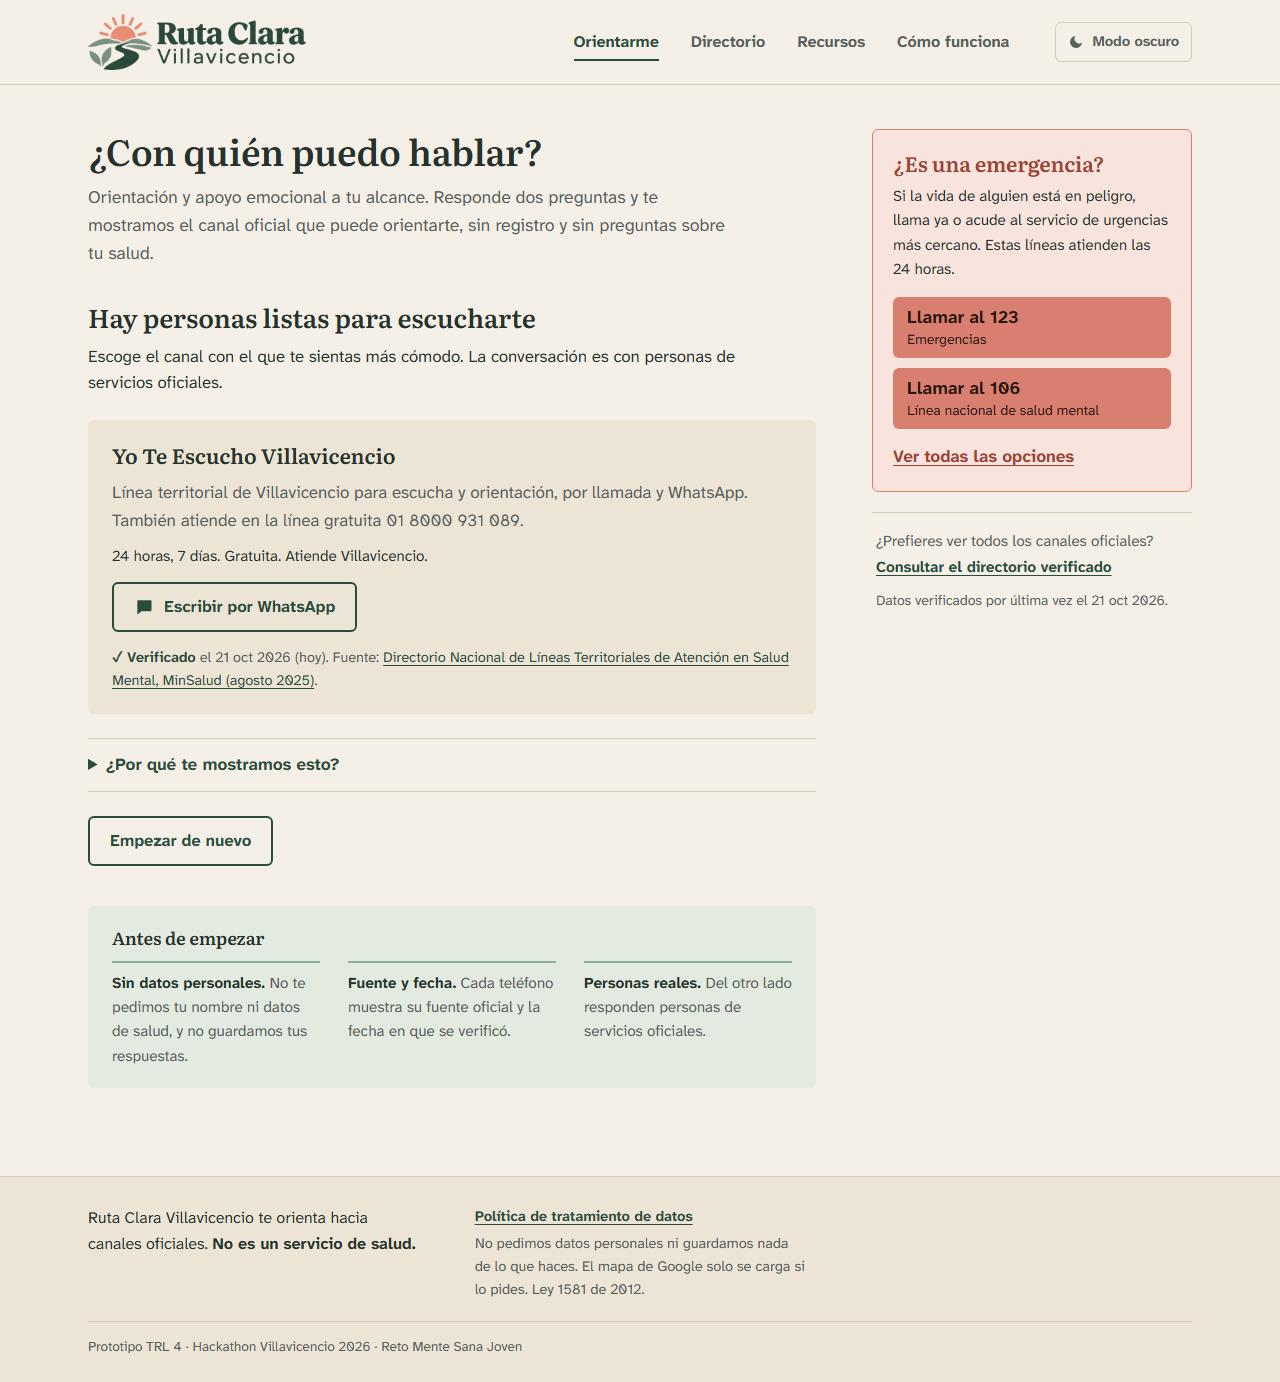
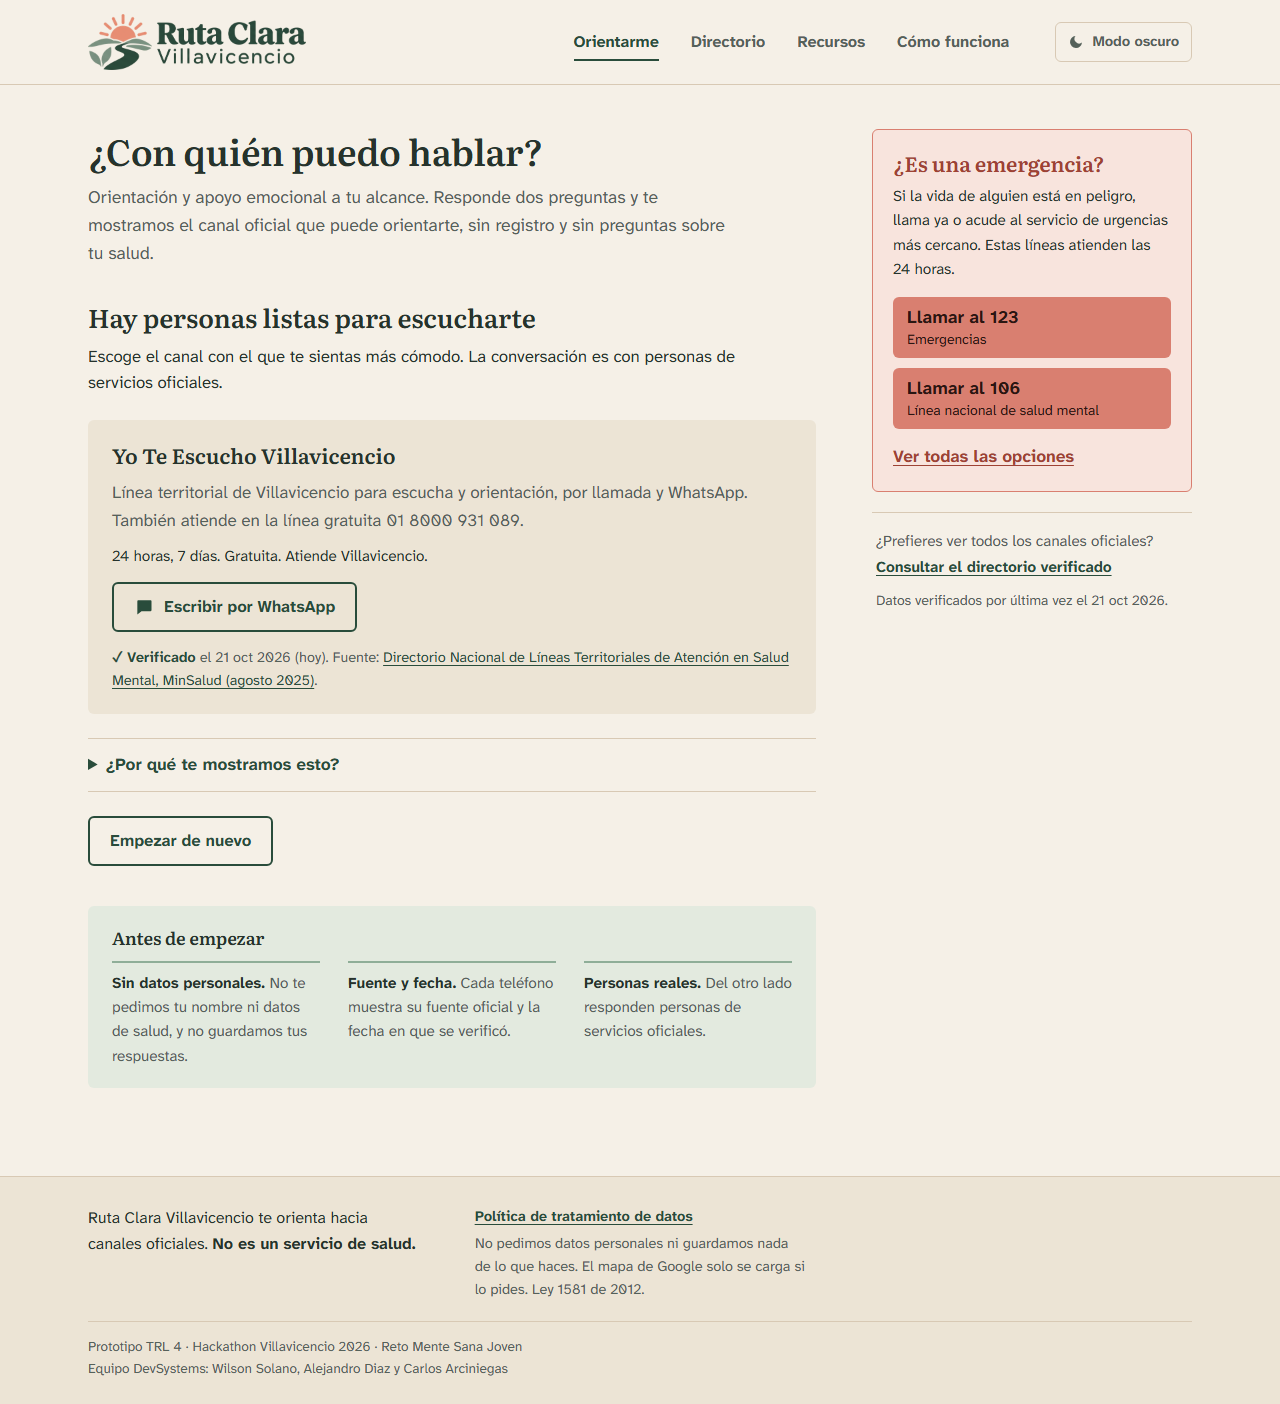
Equipo DevSystems en el pie, la política de datos y la declaración del equipo

diff --git a/src/components/Privacidad.tsx b/src/components/Privacidad.tsx
@@ -88,7 +88,7 @@ export function Privacidad() {
 
       <h3 className="subtitulo">Responsable y vigencia</h3>
       <ul className="lista-numerada">
-        <li><strong>Responsable en el prototipo:</strong> el equipo Ruta Clara Villavicencio, participante de la Hackathon Villavicencio 2026, reto Mente Sana Joven. El prototipo no recoge datos personales en ningún servidor.</li>
+        <li><strong>Responsable en el prototipo:</strong> el equipo DevSystems (Wilson Solano, Alejandro Diaz y Carlos Arciniegas), creador de Ruta Clara Villavicencio y participante de la Hackathon Villavicencio 2026, reto Mente Sana Joven. El prototipo no recoge datos personales en ningún servidor.</li>
         <li><strong>En operación:</strong> la entidad que opere Ruta Clara (por ejemplo, la Alcaldía de Villavicencio) será la responsable y publicará aquí su domicilio, correo, teléfono y el área que atiende peticiones, consultas y reclamos, como exige el Decreto 1377 de 2013 (art. 13).</li>
         <li><strong>Vigencia:</strong> esta política rige desde el 21 oct 2026. Si cambia, lo informaremos en esta página antes de aplicar el cambio.</li>
       </ul>

diff --git a/src/App.tsx b/src/App.tsx
@@ -144,7 +144,7 @@ export default function App() {
             <a href="#privacidad">Política de tratamiento de datos</a>
             <p>No pedimos datos personales ni guardamos nada de lo que haces. El mapa de Google solo se carga si lo pides. Ley 1581 de 2012.</p>
           </div>
-          <p className="pie-legal">Hackathon Villavicencio 2026 · Reto Mente Sana Joven</p>
+          <p className="pie-legal">Hackathon Villavicencio 2026 · Reto Mente Sana Joven<br />Equipo DevSystems: Wilson Solano, Alejandro Diaz y Carlos Arciniegas</p>
         </div>
       </footer>
 

diff --git a/LEEME.md b/LEEME.md
@@ -93,7 +93,7 @@ Cada vista tiene su propia dirección, así que el botón "atrás" del celular f
 
 En orden de prioridad. Si tomas uno, escribe tu nombre al lado.
 
-- [ ] **Completar la declaración del equipo:** nombre del equipo e integrantes con su rol en `docs/05-declaracion-del-equipo.md`. Es un entregable obligatorio.
+- [ ] **Agregar el rol de cada integrante** en `docs/05-declaracion-del-equipo.md`. Es un entregable obligatorio.
 - [ ] **Cambiar `verificadoPor`** en `servicios.json` por el nombre de quien verificó cada dato.
 - [ ] **Anotar la retroalimentación de mentorías** en la tabla de `docs/03-registro-fuentes-y-cambios.md`. El jurado lo pide explícitamente.
 - [ ] **Ensayar la demo completa** en el computador del pitch siguiendo `docs/06-guion-pitch.md` (orientador, mapa, recursos y política de datos). El mapa necesita internet.

diff --git a/docs/05-declaracion-del-equipo.md b/docs/05-declaracion-del-equipo.md
@@ -1,7 +1,7 @@
 # 5. Declaración del equipo
 
-**Equipo:** _[nombre del equipo]_
-**Integrantes:** _[nombre completo · rol]_ · _[nombre completo · rol]_ · _[nombre completo · rol]_
+**Equipo:** DevSystems
+**Integrantes:** Wilson Solano · Alejandro Diaz · Carlos Arciniegas
 **Categoría:** 2 · Joven (18 a 28 años) · Reto Mente Sana Joven
 
 ## Trabajo previo
